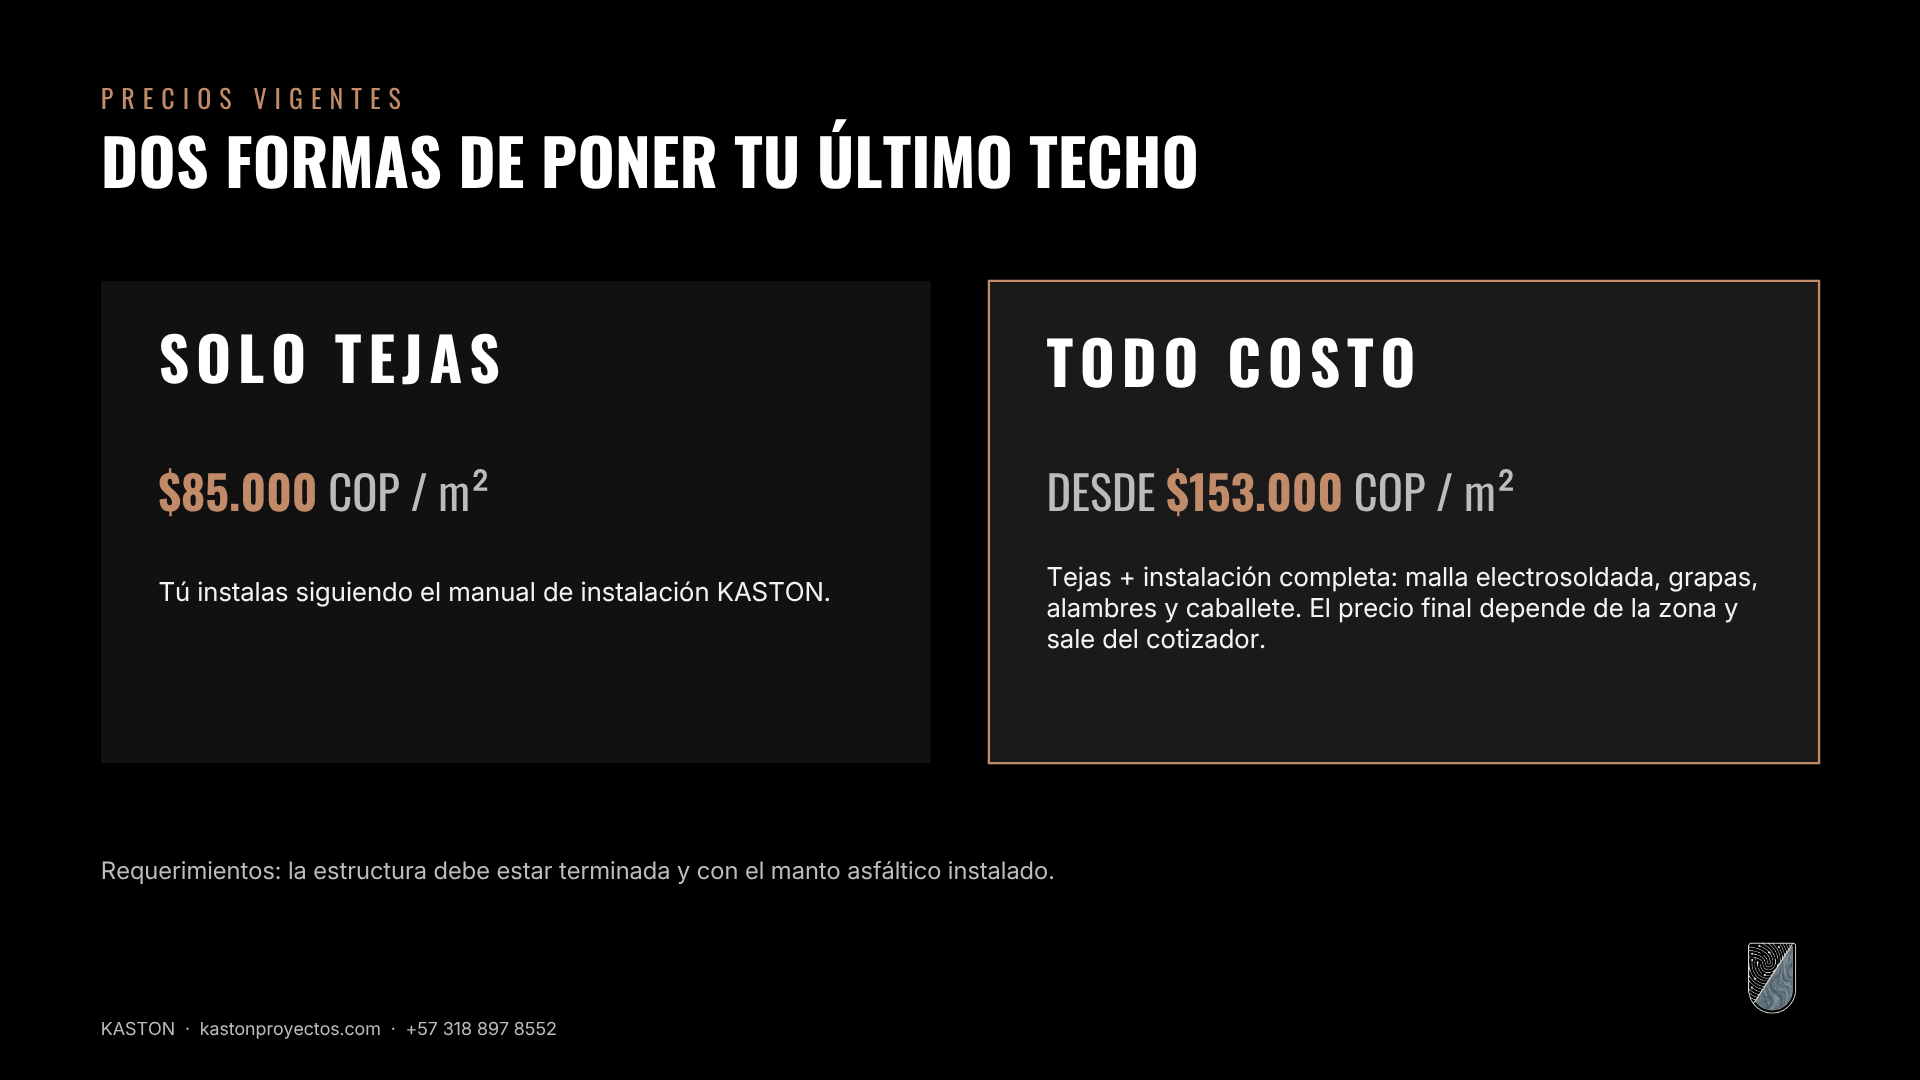
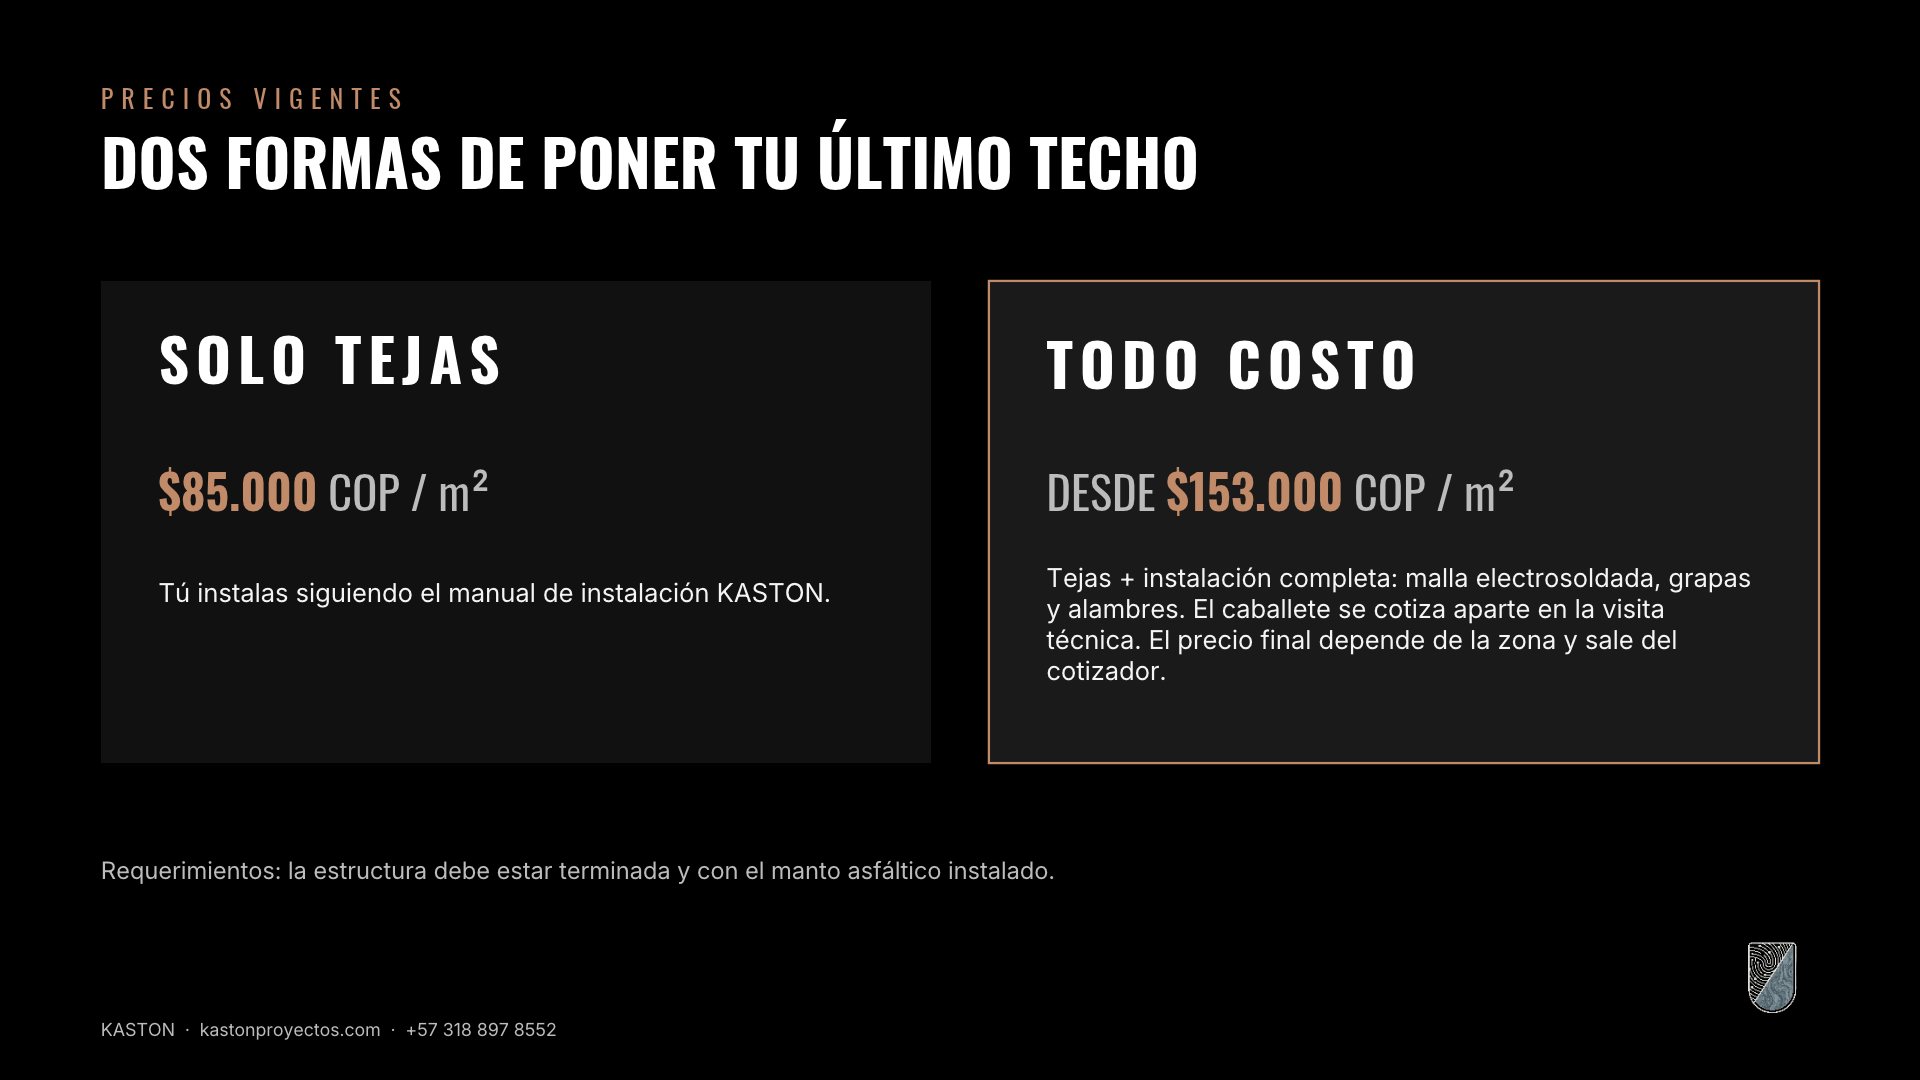
copy: el caballete se cotiza aparte en la presentacion y costal a $126/m2
- presentacion: la diapositiva de precios ya no dice que el todo costo
  incluye caballete; ahora dice que se cotiza aparte en la visita tecnica
- cotizador: notas internas con el costal a $300 por costal de 100 tejas
  ($126/m2) y por que el caballete no entra en el precio por m2

diff --git a/cotizador.html b/cotizador.html
@@ -295,11 +295,13 @@
         const KASTON_UNITS_PER_FT2 = 3.90; // 42 / 10.7639
 
         /* ─────────────────────────────────────────────────────────────
-           PRECIOS POR m²  ·  costos actualizados septiembre 2026
+           PRECIOS POR m²  ·  costos actualizados octubre 2026
            ─────────────────────────────────────────────────────────────
            SOLO TEJA: precio único, no depende de la ubicación.
-             Costo: teja 42 × $1.500 = $63.000 + costal $210 = $63.210/m²
-             Venta: $85.000/m²  →  te quedan $21.790/m² (25,6%)
+             Costo: teja $63.000/m² (42 tejas, lo que cobra la fábrica)
+                    + costal $126 = $63.126/m²
+                    (costal $300, lleva 100 tejas → $3 por teja × 42)
+             Venta: $85.000/m²  →  te quedan $21.874/m² (25,7%)
 
            TODO COSTO: se arma sumando, no aplicando un markup al costo.
            La teja entra al PRECIO DE VENTA de $85.000 (no a costo): si el
@@ -317,10 +319,13 @@
              Hasta 25 km:  85.000 + 54.335,41 × 1,25 = $152.919  →  $153.000
              25 a 60 km:   85.000 + 64.335,41 × 1,25 = $165.419  →  $165.500
 
-           OJO: dos costos que TODAVÍA NO están incluidos: el caballete (lo fabrica
-           el mismo proveedor de la teja; falta su precio) y el traslapo de la malla
-           (sube el $6.345,41 si hay solape entre láminas). Si entran, hay que
-           recalcular estos precios hacia arriba.
+           CABALLETE: no entra en el precio por m², a propósito. Se cobra por metro
+           lineal y depende de la forma del techo (no todos son a dos aguas), algo
+           que ni el cotizador ni las fotos pueden medir. Se cotiza aparte cuando
+           se revisa el techo; por eso el cotizador da un estimado.
+
+           OJO: el traslapo de la malla tampoco está incluido (sube el $6.345,41 si
+           hay solape entre láminas). Si entra, hay que recalcular estos precios.
         ───────────────────────────────────────────────────────────────── */
         const PRECIO_SOLO_TEJA_M2 = 85000;
 
@@ -335,15 +340,15 @@
                 id: 'metro',
                 maxKm: 25,
                 instalador: 45000,
-                costoM2: 117545.41,  // lo que REALMENTE pagas: teja $63.000 + insumos $9.545,41 + instalador
-                precioM2: 153000     // 85.000 + (9.335,41 + 45.000) × 1,25  →  te quedan $35.455/m²
+                costoM2: 117461.41,  // lo que REALMENTE pagas: teja $63.000 + costal $126 + insumos $9.335,41 + instalador
+                precioM2: 153000     // 85.000 + (9.335,41 + 45.000) × 1,25  →  te quedan $35.539/m²
             },
             {
                 id: 'afueras',
                 maxKm: 60,
                 instalador: 55000,
-                costoM2: 127545.41,  // lo que REALMENTE pagas: teja $63.000 + insumos $9.545,41 + instalador
-                precioM2: 165500     // 85.000 + (9.335,41 + 55.000) × 1,25  →  te quedan $37.955/m²
+                costoM2: 127461.41,  // lo que REALMENTE pagas: teja $63.000 + costal $126 + insumos $9.335,41 + instalador
+                precioM2: 165500     // 85.000 + (9.335,41 + 55.000) × 1,25  →  te quedan $38.039/m²
             },
             {
                 id: 'lejana',
